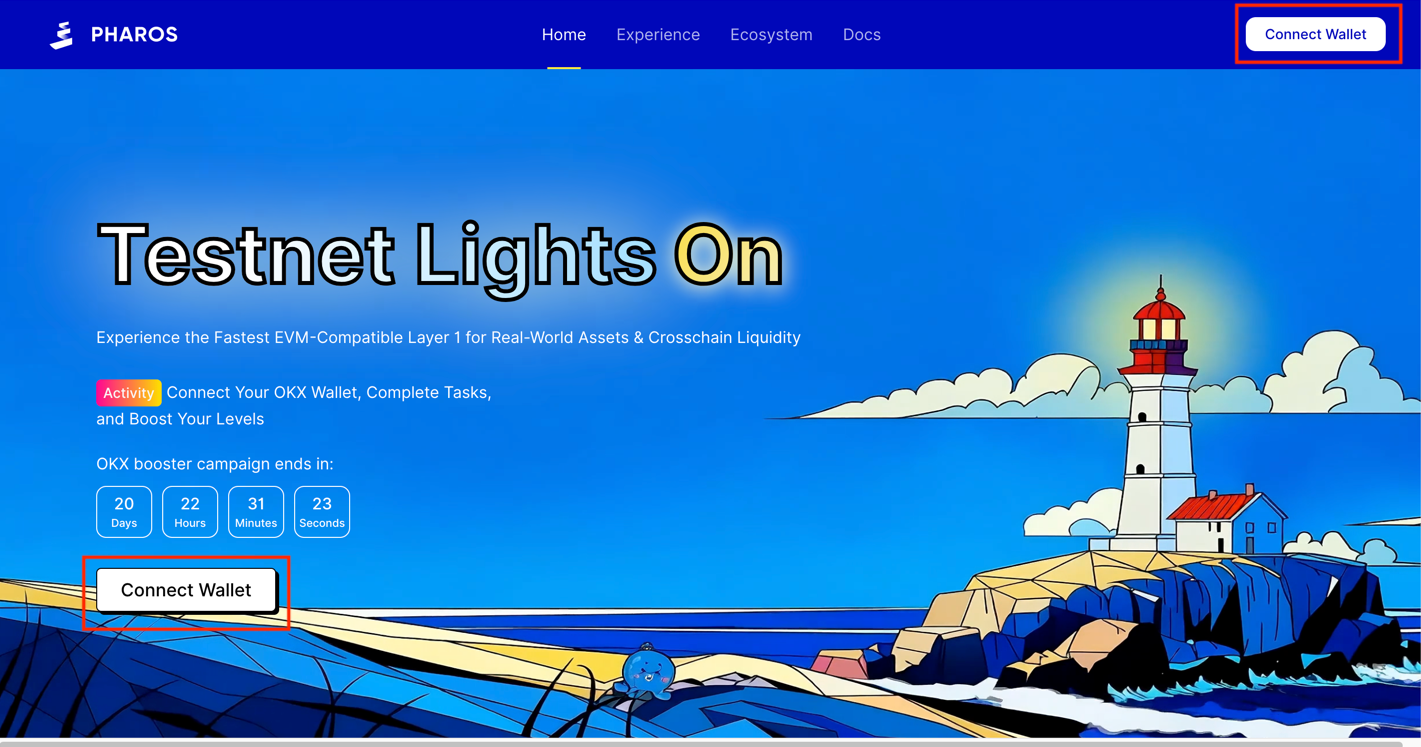
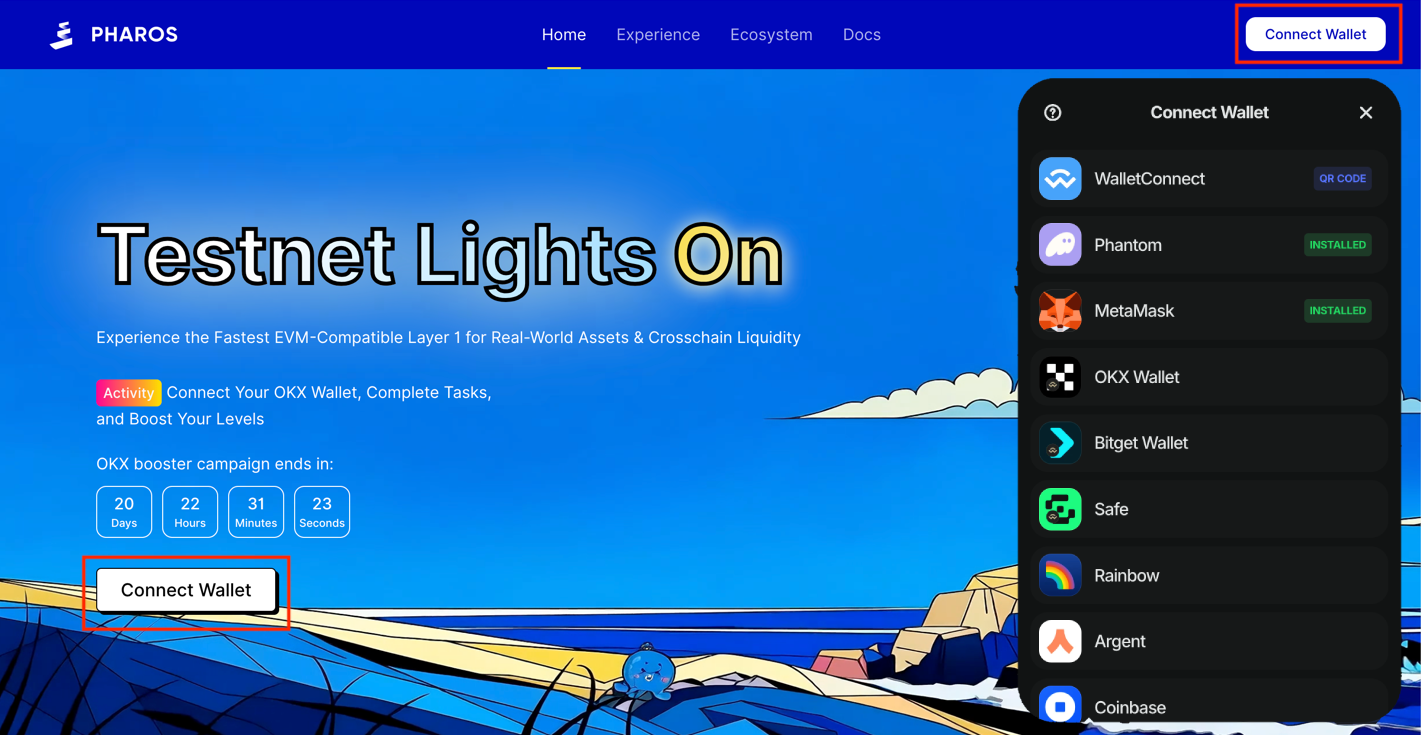
minor updates

diff --git a/src/TestnetTutorial.js b/src/TestnetTutorial.js
@@ -80,6 +80,7 @@ const PharosTestnetTutorial = () => {
                                         onClick={() => window.open(link, '_blank')}
                                     />
                                 </div>
+                                <p style={{textAlign: 'center', fontSize: 12, marginTop: 4}}>Click the image to follow the link</p>
                             </div>
                             <p className="text-gray-300 text-lg leading-relaxed">{description}</p>
                         </div>
@@ -107,7 +108,7 @@ const PharosTestnetTutorial = () => {
                     {/* Homepage */}
                     <TutorialStep
                         title="1. Testnet Homepage"
-                        description="Starting point for all testnet users"
+                        description="Starting point for all testnet users. Connect your wallet"
                         imageSrc="./connect_wallet.png"
                         gradient="from-blue-900 to-purple-900"
                         color="text-blue-400"

diff --git a/public/index.html b/public/index.html
@@ -2,7 +2,7 @@
 <html lang="en">
   <head>
     <meta charset="utf-8" />
-    <link rel="icon" href="%PUBLIC_URL%/favicon.ico" />
+    <link rel="icon" href="pharos_logo.jpeg" />
     <meta name="viewport" content="width=device-width, initial-scale=1" />
     <meta name="theme-color" content="#000000" />
     <meta
@@ -24,7 +24,7 @@
       work correctly both with client-side routing and a non-root public URL.
       Learn how to configure a non-root public URL by running `npm run build`.
     -->
-    <title>React App</title>
+    <title>Pharos training center</title>
   </head>
   <body>
     <noscript>You need to enable JavaScript to run this app.</noscript>
